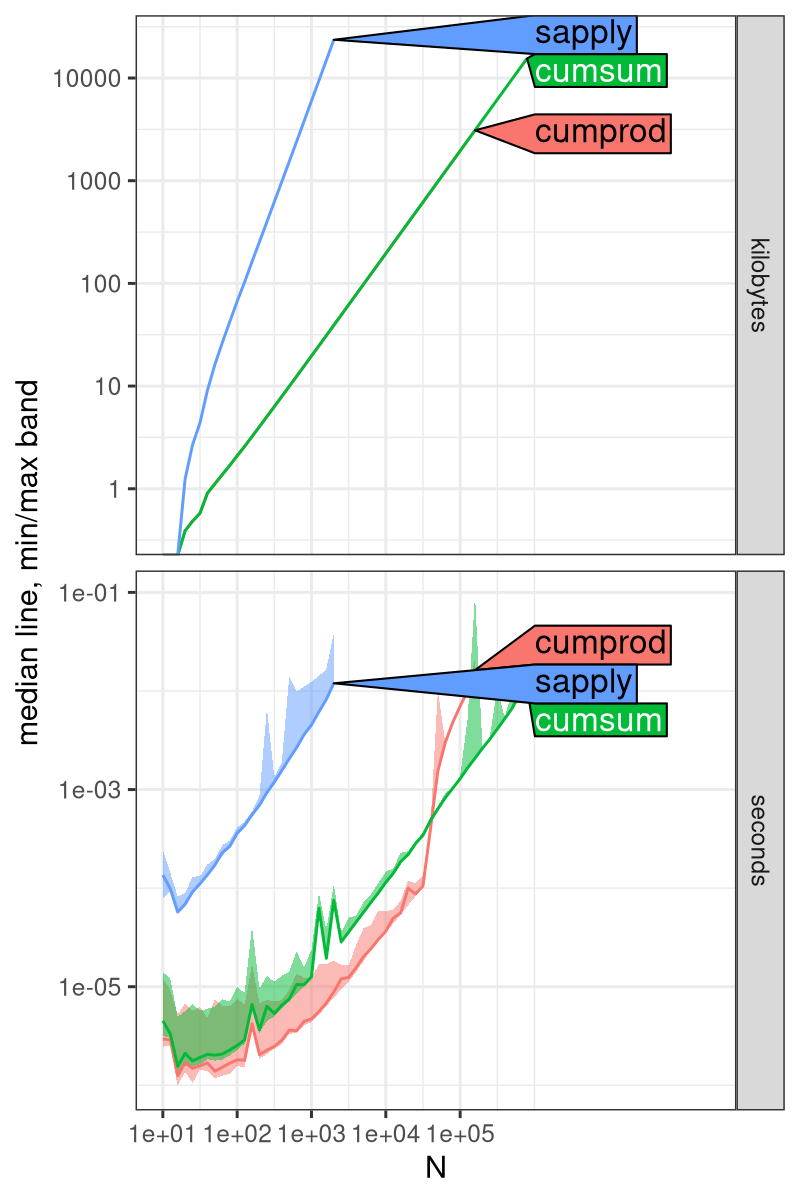
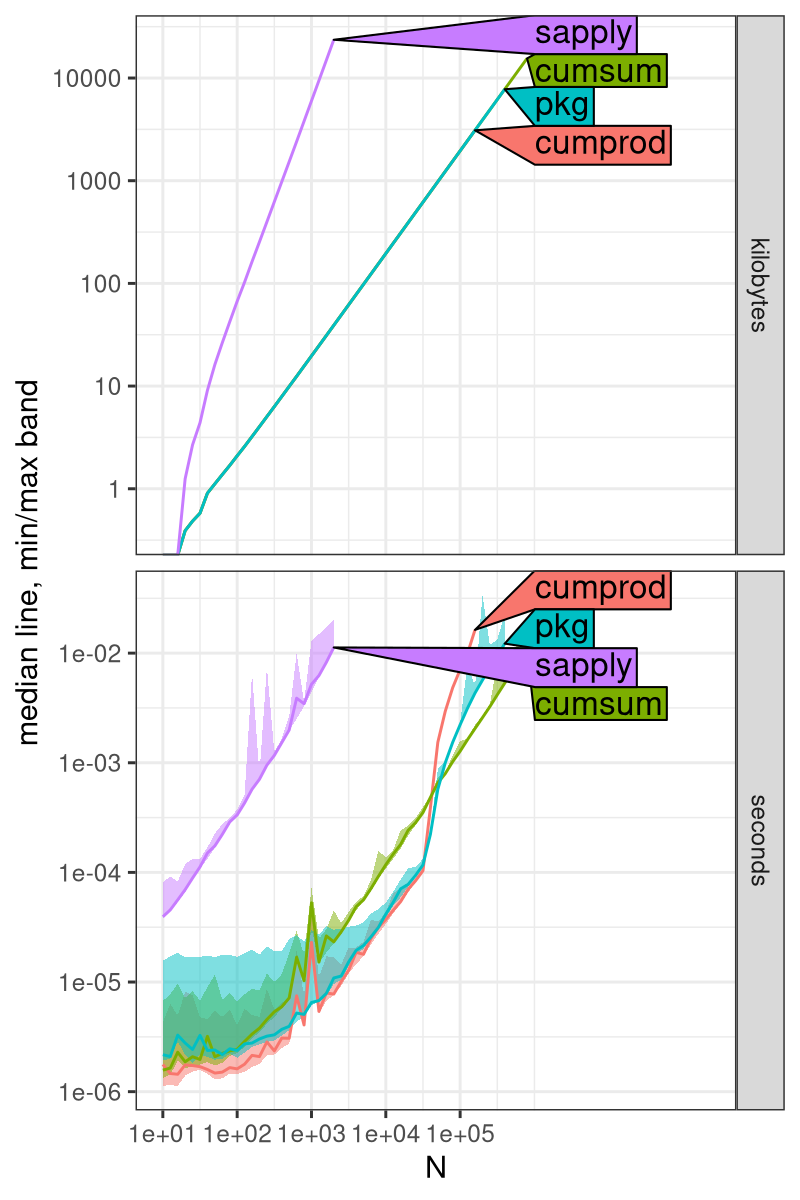
cumprodpkg

diff --git a/cumprod/src/RcppExports.cpp b/cumprod/src/RcppExports.cpp
@@ -1,0 +1,33 @@
+// Generated by using Rcpp::compileAttributes() -> do not edit by hand
+// Generator token: 10BE3573-1514-4C36-9D1C-5A225CD40393
+
+#include <Rcpp.h>
+
+using namespace Rcpp;
+
+#ifdef RCPP_USE_GLOBAL_ROSTREAM
+Rcpp::Rostream<true>&  Rcpp::Rcout = Rcpp::Rcpp_cout_get();
+Rcpp::Rostream<false>& Rcpp::Rcerr = Rcpp::Rcpp_cerr_get();
+#endif
+
+// cumprod_interface
+Rcpp::NumericVector cumprod_interface(Rcpp::NumericVector in_vec);
+RcppExport SEXP _cumprod_cumprod_interface(SEXP in_vecSEXP) {
+BEGIN_RCPP
+    Rcpp::RObject rcpp_result_gen;
+    Rcpp::RNGScope rcpp_rngScope_gen;
+    Rcpp::traits::input_parameter< Rcpp::NumericVector >::type in_vec(in_vecSEXP);
+    rcpp_result_gen = Rcpp::wrap(cumprod_interface(in_vec));
+    return rcpp_result_gen;
+END_RCPP
+}
+
+static const R_CallMethodDef CallEntries[] = {
+    {"_cumprod_cumprod_interface", (DL_FUNC) &_cumprod_cumprod_interface, 1},
+    {NULL, NULL, 0}
+};
+
+RcppExport void R_init_cumprod(DllInfo *dll) {
+    R_registerRoutines(dll, NULL, CallEntries, NULL, NULL);
+    R_useDynamicSymbols(dll, FALSE);
+}

diff --git a/cumprod/src/interface.cpp b/cumprod/src/interface.cpp
@@ -1,0 +1,9 @@
+#include <Rcpp.h>
+#include "cumprod.h"
+// [[Rcpp::export]]
+Rcpp::NumericVector cumprod_interface(Rcpp::NumericVector in_vec){
+  int size = in_vec.size();
+  Rcpp::NumericVector out_vec(size);
+  int status = cumprod(in_vec.begin(), size, out_vec.begin());
+  return out_vec;
+}

diff --git a/cumprod/src/cumprod.cpp b/cumprod/src/cumprod.cpp
@@ -1,0 +1,8 @@
+int cumprod(const double *in, const int size, double *out){
+  double prod = 1;
+  for(int i=0; i<size; i++){
+    prod *= in[i];
+    out[i] = prod;
+  }
+  return 0;
+}

diff --git a/cumprod/src/cumprod.h b/cumprod/src/cumprod.h
@@ -1,0 +1,1 @@
+int cumprod(const double*, const int, double*);
